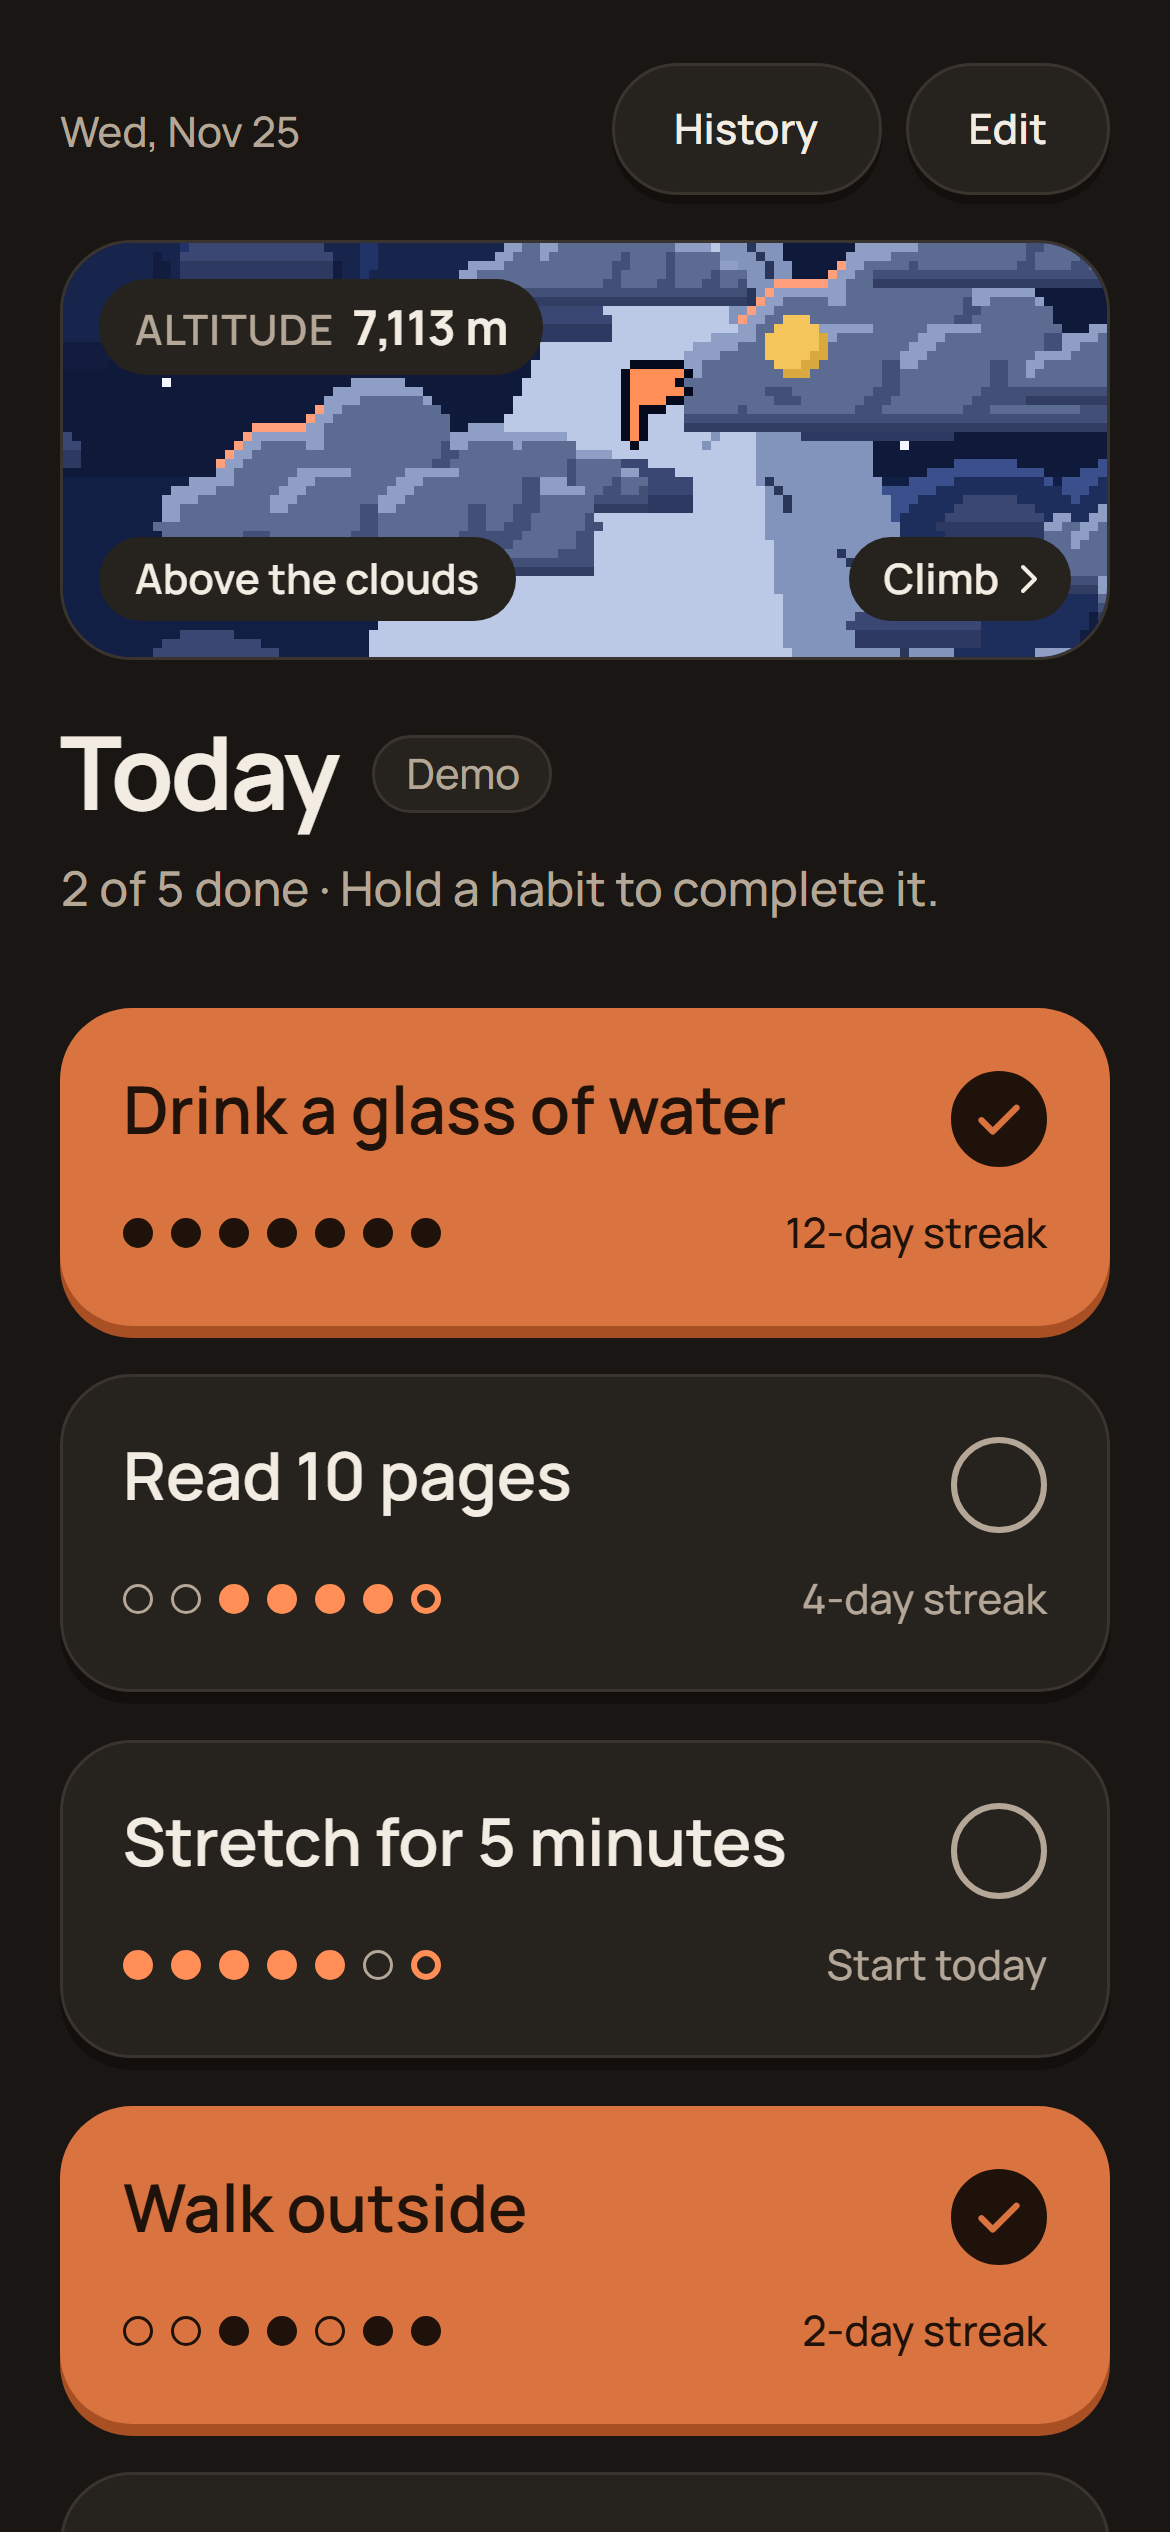
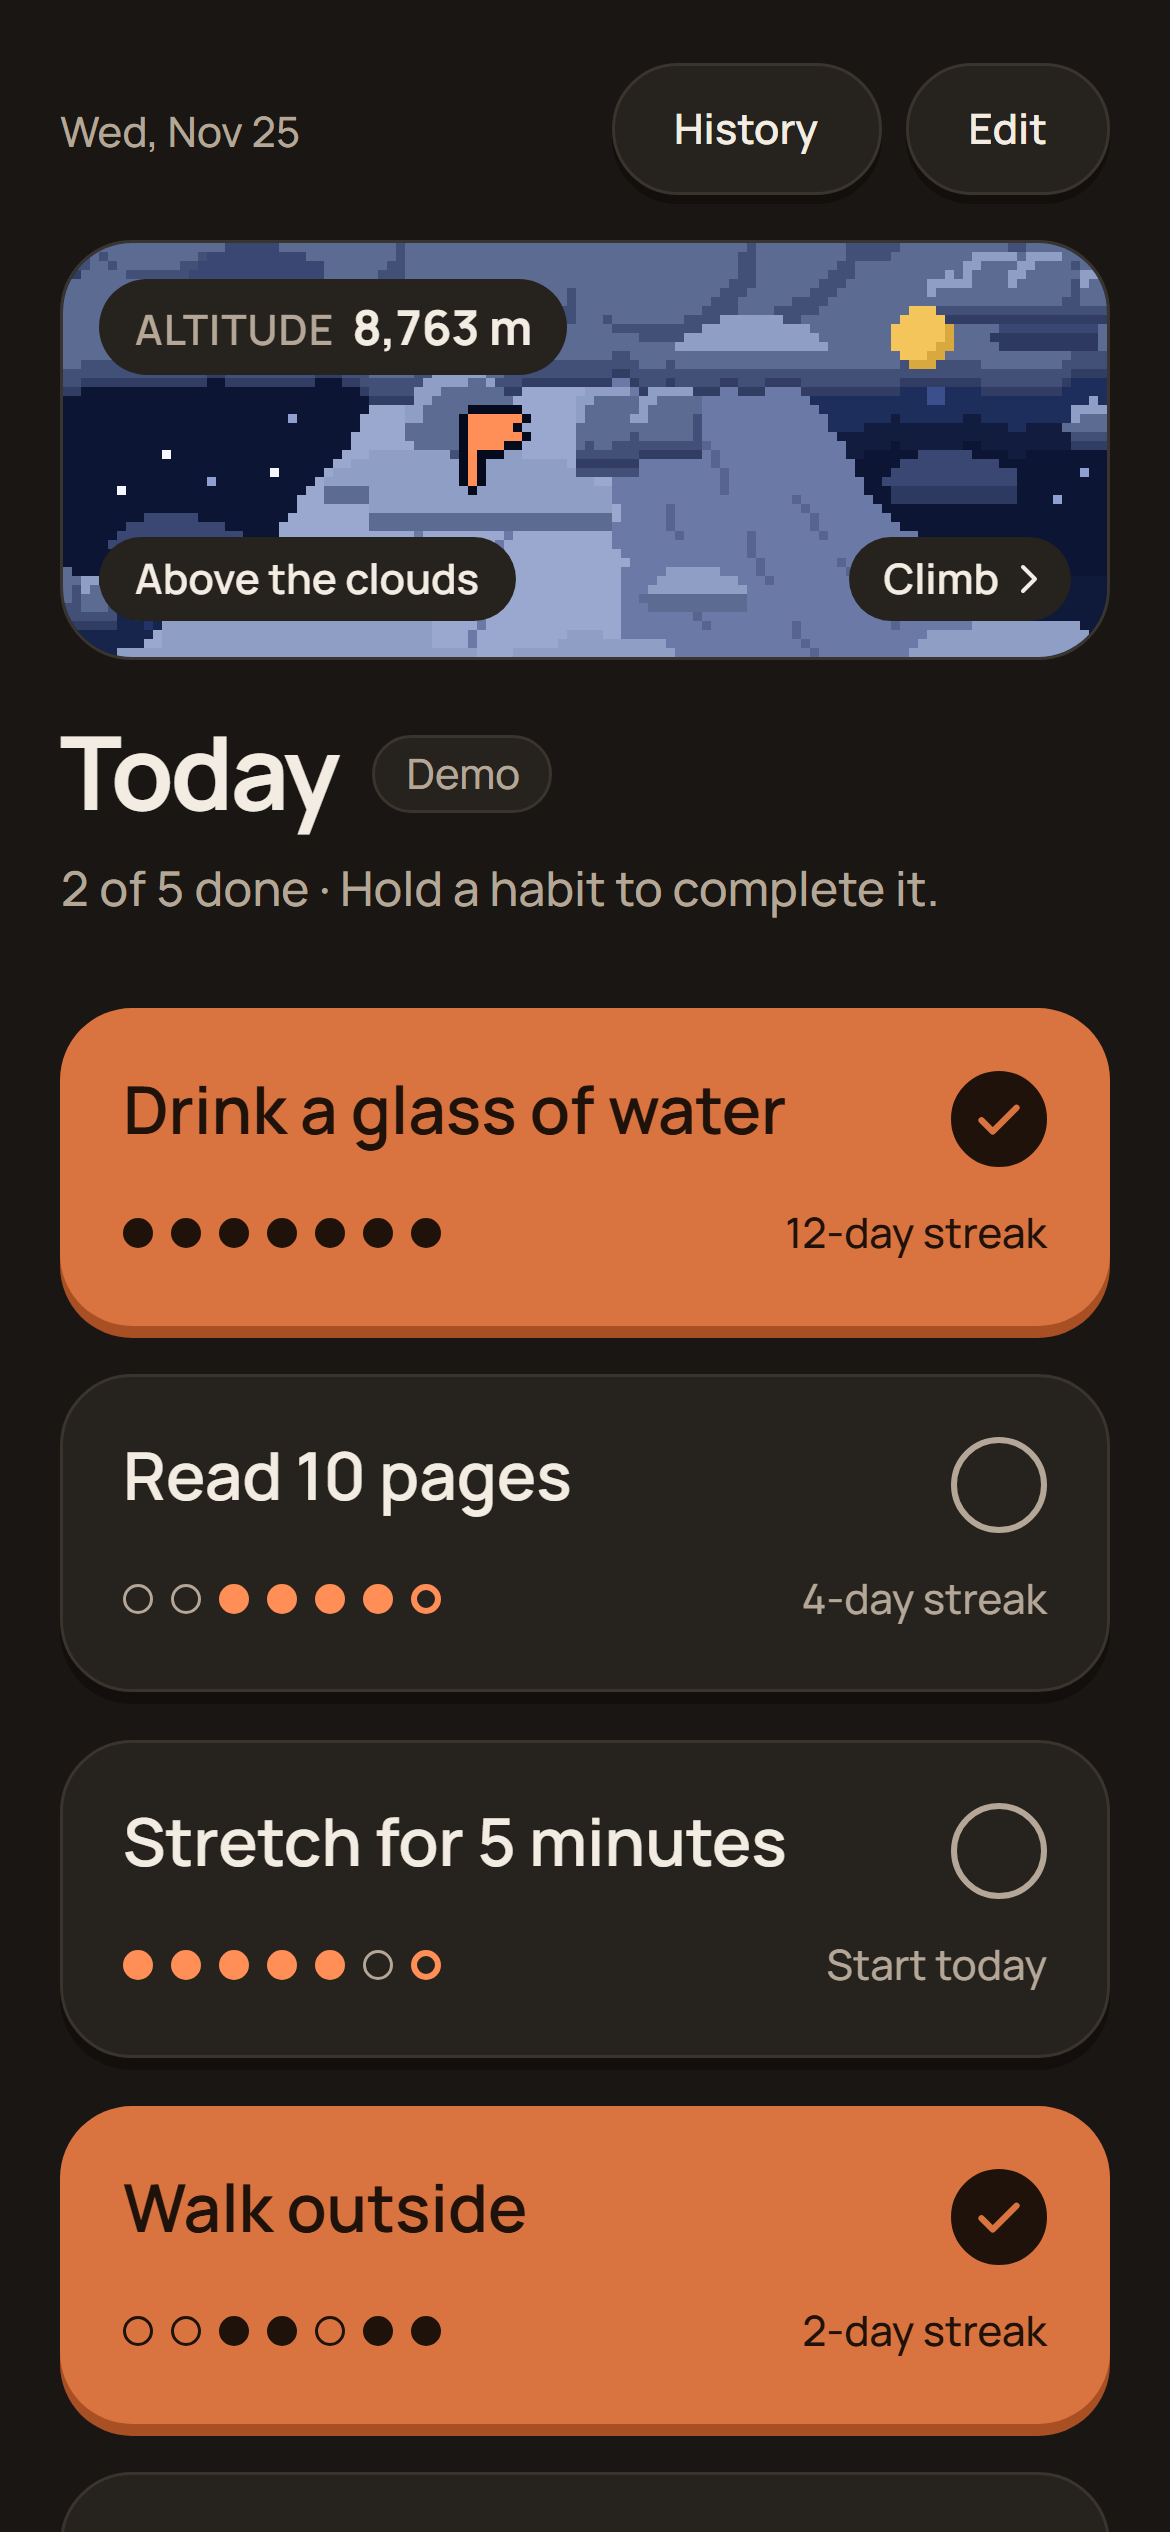
Work: Ascend's new mountain

Changed region(s): [[0.0308, 0.0936, 0.9538, 0.2808], [0.0308, 0.2184, 0.0923, 0.2496]]

diff --git a/components/work.tsx b/components/work.tsx
@@ -126,7 +126,7 @@ export function Work() {
             <Phone>
               <ScreenLayer
                 image={ascendScreen}
-                alt="Ascend's Today screen: the pixel-art Climb strip, Altitude 7,113 m · Above the clouds, above the habit keys."
+                alt="Ascend's Today screen: the pixel-art Climb strip, Altitude 8,763 m · Above the clouds, broad mountain slopes with the top hidden in cloud, above the habit keys."
                 sizes="300px"
               />
             </Phone>

diff --git a/plans/portfolio.md b/plans/portfolio.md
@@ -51,7 +51,7 @@ Floors are what the site shows; exact values are what the logs said on 2026-11-2
 - **500+ unit and database tests, 90+ browser tests** (516 and 90 at Feature 10, `plans/habit-tracker.md` Reviews; 379 and 77 at Feature 8b before that).
 - **260+ review findings** (268 by the fact agent's count, 285 by Claude's parser, both of committed HEAD; Reviews log).
 - Decision (round 4): the Climb never slips: altitude is derived from check-ins like streaks, each day climbs by the share of habits done, up to 150 m, and a missed day never costs any (plan, Feature 10). Before: "Streaks are derived, never stored".
-- Screens: `docs/screenshots/feature-10/today-{dark,light}.png` (Today with The Climb strip; round 4).
+- Screens: `docs/screenshots/feature-10/today-{dark,light}.png` (Today with The Climb strip; round 4, refreshed in round 7 from Feature 10b, `e00cd03`).
 
 ### Orbit (`~/Documents/network-crm`)
 - "A personal CRM for an internship search: the people you meet, who introduced you to whom, what you talked about, when to follow up, and every application, with a map of your network at the centre." (`README.md:3-5`)
@@ -418,6 +418,19 @@ Dani approved the case study with two copy edits and two decisions:
 3. **Theme** stays on the system setting. **The View Transition** is skipped for now.
 Everything else on the page is kept as approved ("no price yet", "The hardest decision",
 "What I'd do next").
+
+## Round 7: Ascend's new mountain (2026-11-25)
+
+Dani's brief: `~/Documents/claude-inbox/portfolio/` (Feature 10b, habit-tracker `e00cd03`).
+1. **New screenshots**: `ascend-today-{light,dark}.png` copied from
+   `habit-tracker/docs/screenshots/feature-10/today-*.png` at `e00cd03`: the Fuji-shaped
+   mountain with its top in cloud, the demo at 8,763 m (85 m below High ridge). Origin
+   re-embedded; SOURCES.md names the commit.
+2. **Alt text**: "…Altitude 8,763 m · Above the clouds, broad mountain slopes with the top
+   hidden in cloud, above the habit keys."
+3. **No "Summit" or finish line** anywhere in the portfolio's copy (searched content,
+   components, app); the Ascend decision ("up to 150 m, and a missed day never costs any")
+   still matches Feature 10b, which keeps the daily climb rules.
 
 ## Reviews
 

diff --git a/public/media/SOURCES.md b/public/media/SOURCES.md
@@ -12,7 +12,7 @@ an embedded text chunk (`impeccable embed-prompt --read <file>`).
 | `bitewise-swap-{dark,light}.png` | Frames at 25.3 s (dark tour) and 24.8 s (light tour) |
 | `bitewise-scan.png` | Frame at 62.1 s of `bitewise-demo-light-real-scan.mp4` (the Nov 25 re-recording): a real iPhone barcode scan, used in both themes |
 | `bitewise-cost-{dark,light}.png` | Frames at 53.6 s (dark tour) and 53.7 s (light tour) |
-| `ascend-today-{dark,light}.png` | `habit-tracker/docs/screenshots/feature-10/today-*.png`: Today with The Climb strip (Playwright, 390 × 844 @3) |
+| `ascend-today-{dark,light}.png` | `habit-tracker/docs/screenshots/feature-10/today-*.png` at `e00cd03` (Feature 10b, the climb with no top): Today with The Climb strip, the demo at 8,763 m, the mountain's top hidden in cloud (Playwright, 390 × 844 @3) |
 | `orbit-map-{dark,light}.png` | `network-crm/docs/screenshots/feature-7/map-*.png`: the 3D map (Playwright, 390 × 844 @3) |
 | `bitewise-swap-sheet-{dark,light}.png` | The case study's swap figure: https://trybitewise.vercel.app via Try the demo, Today unscrolled, the swap sheet opened from Breakfast (Overnight oats) (Playwright, 393 × 852 @2, 2026-11-25; nothing swapped or reset) |
 
